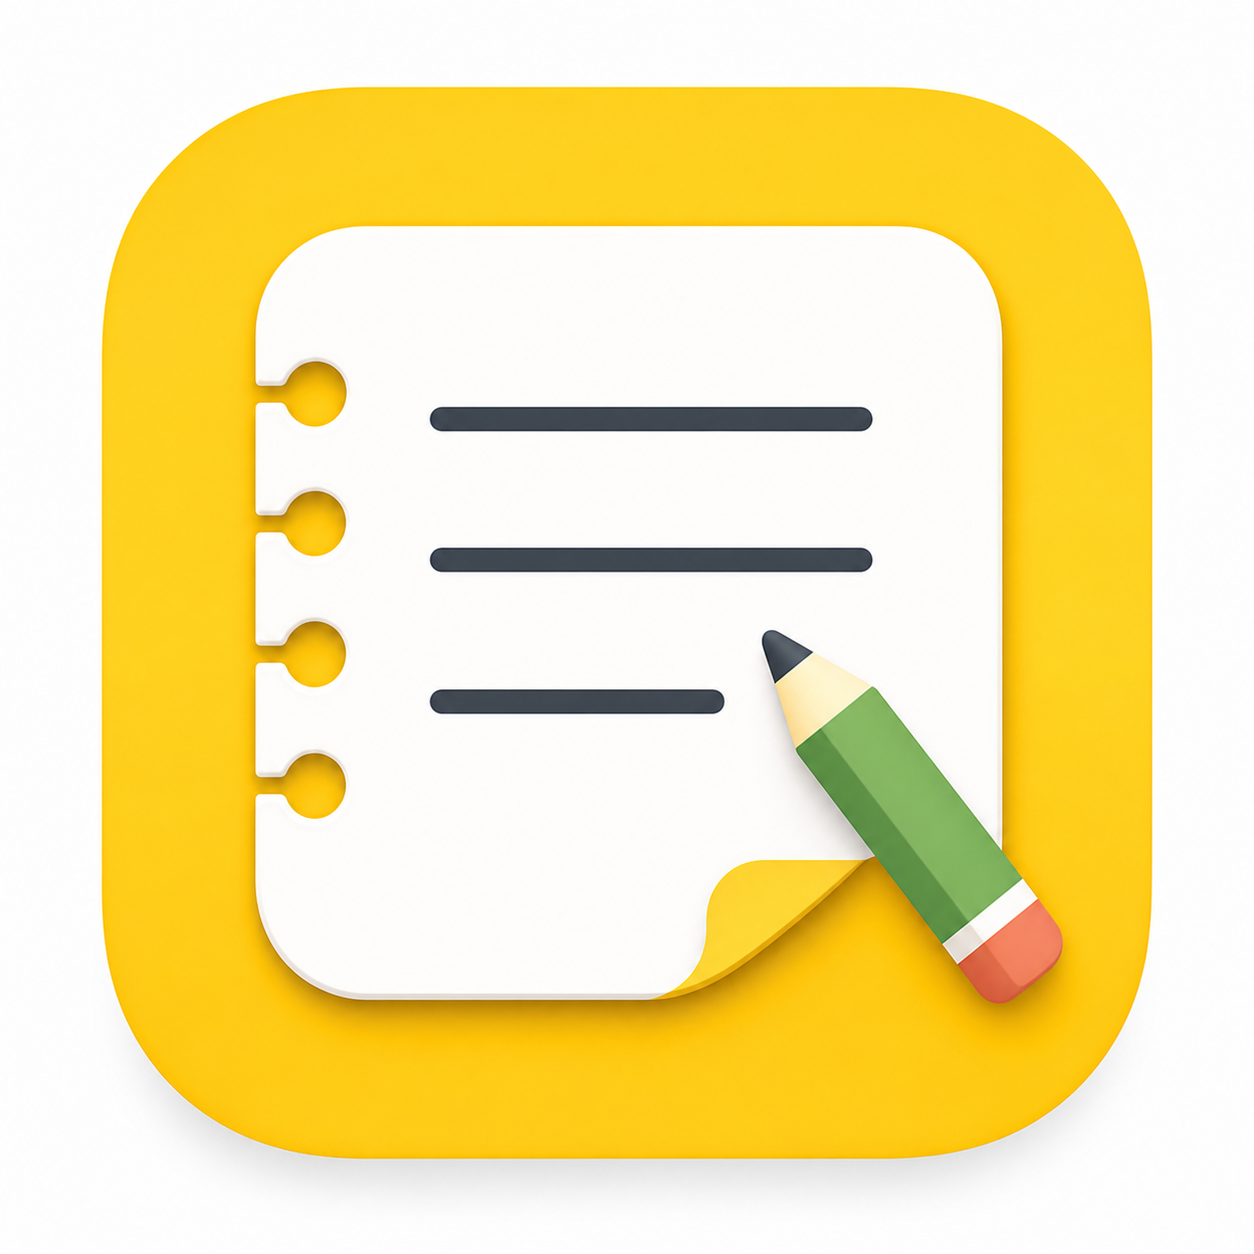
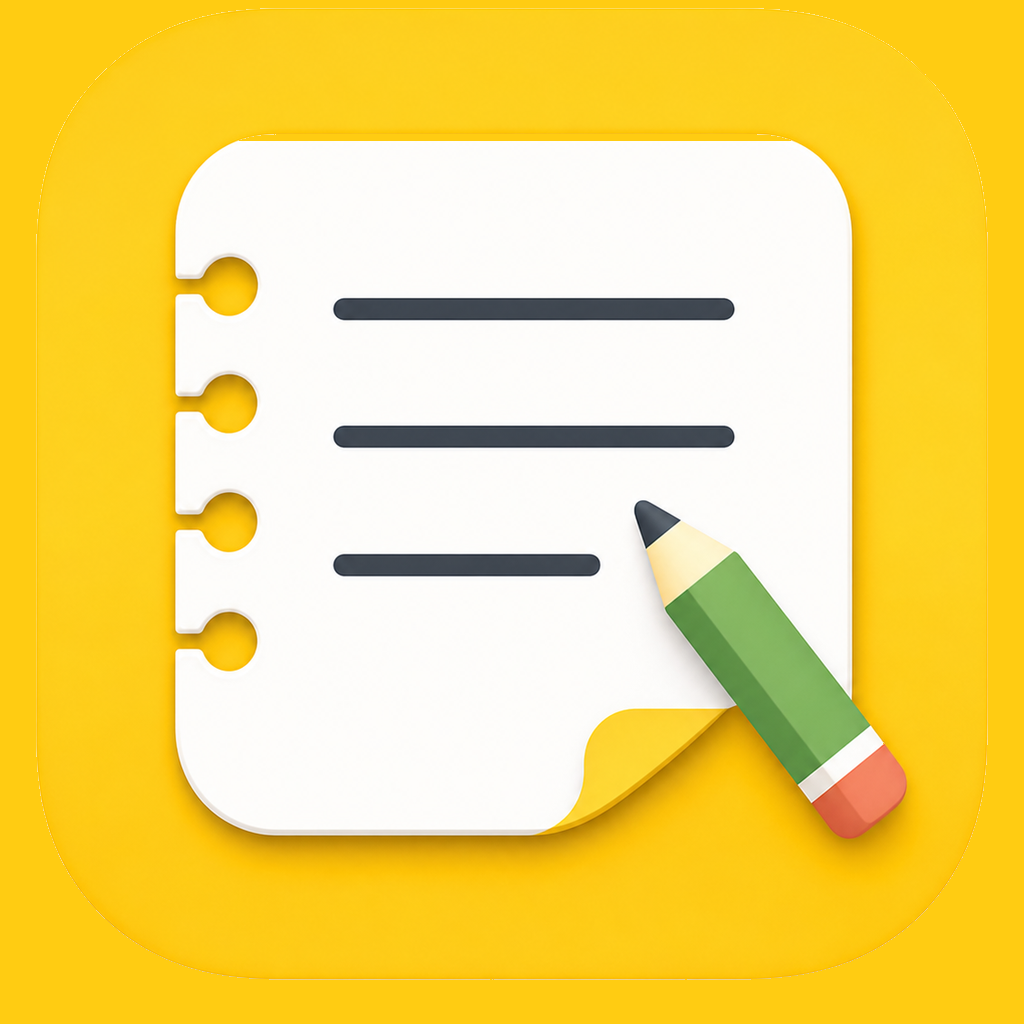
アイコン

diff --git a/service-worker.js b/service-worker.js
@@ -1,4 +1,4 @@
-const CACHE_VERSION = "v1";
+const CACHE_VERSION = "v2";
 const CACHE_NAME = `memocho-static-${CACHE_VERSION}`;
 const ASSETS = [
   "./",